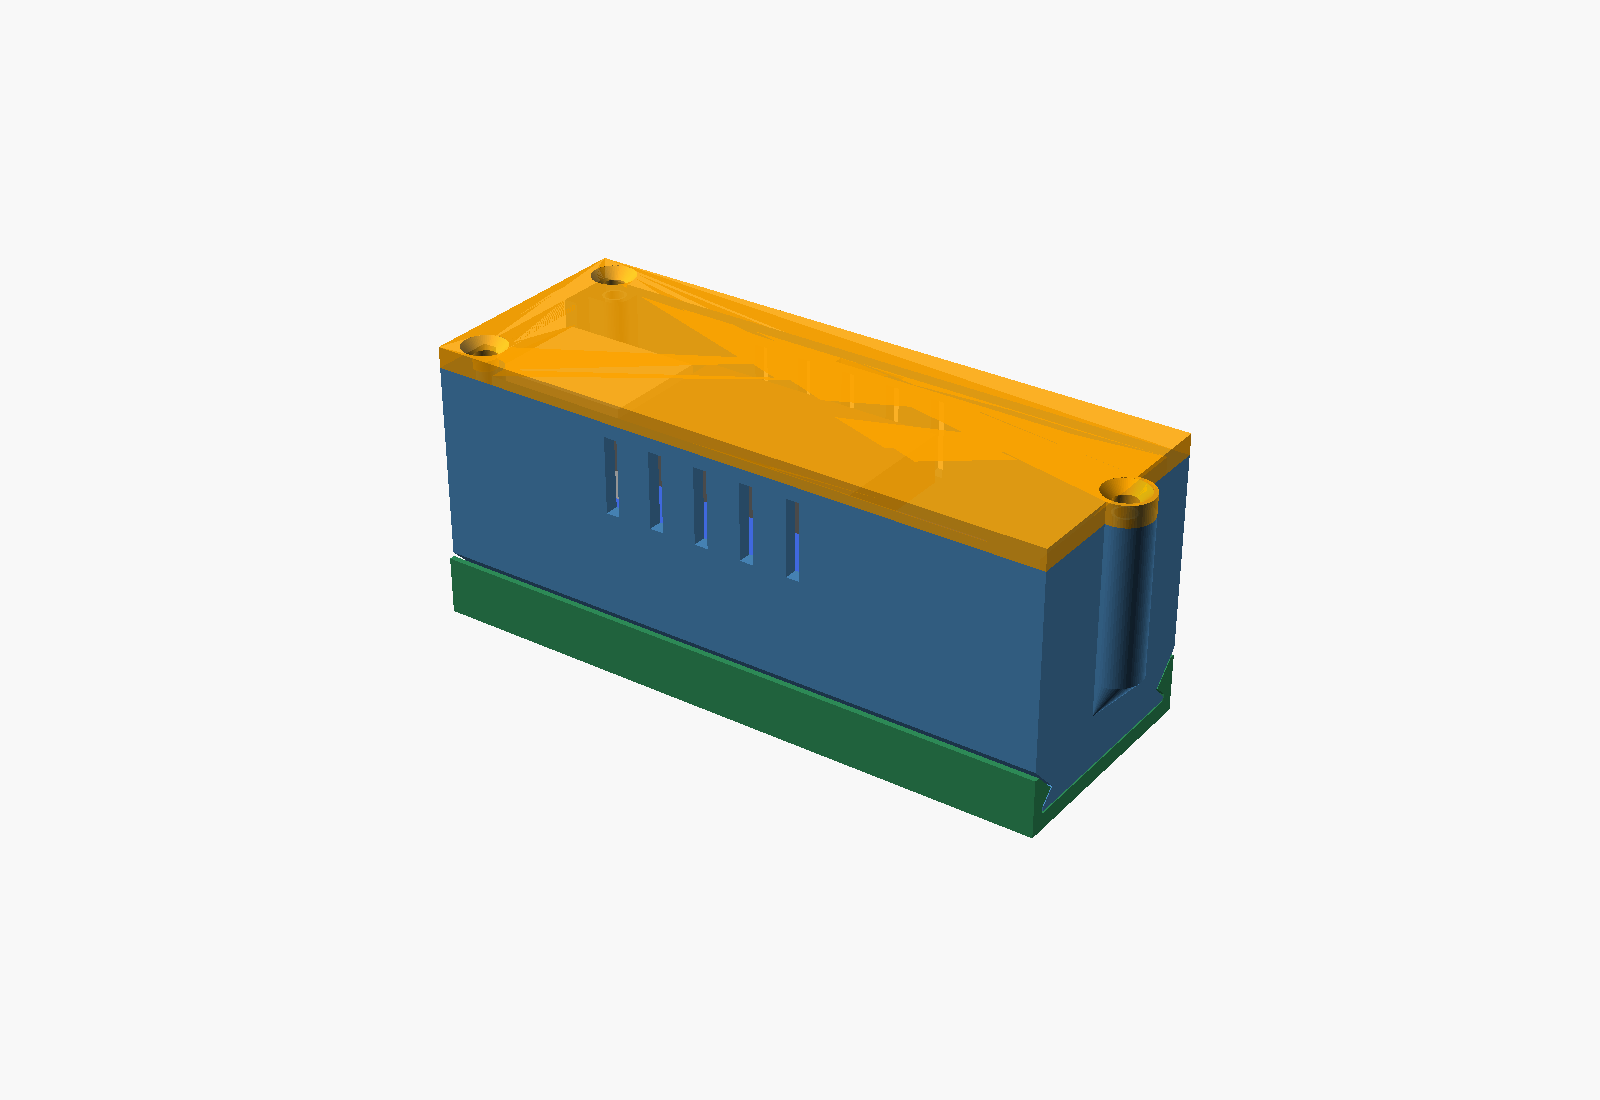
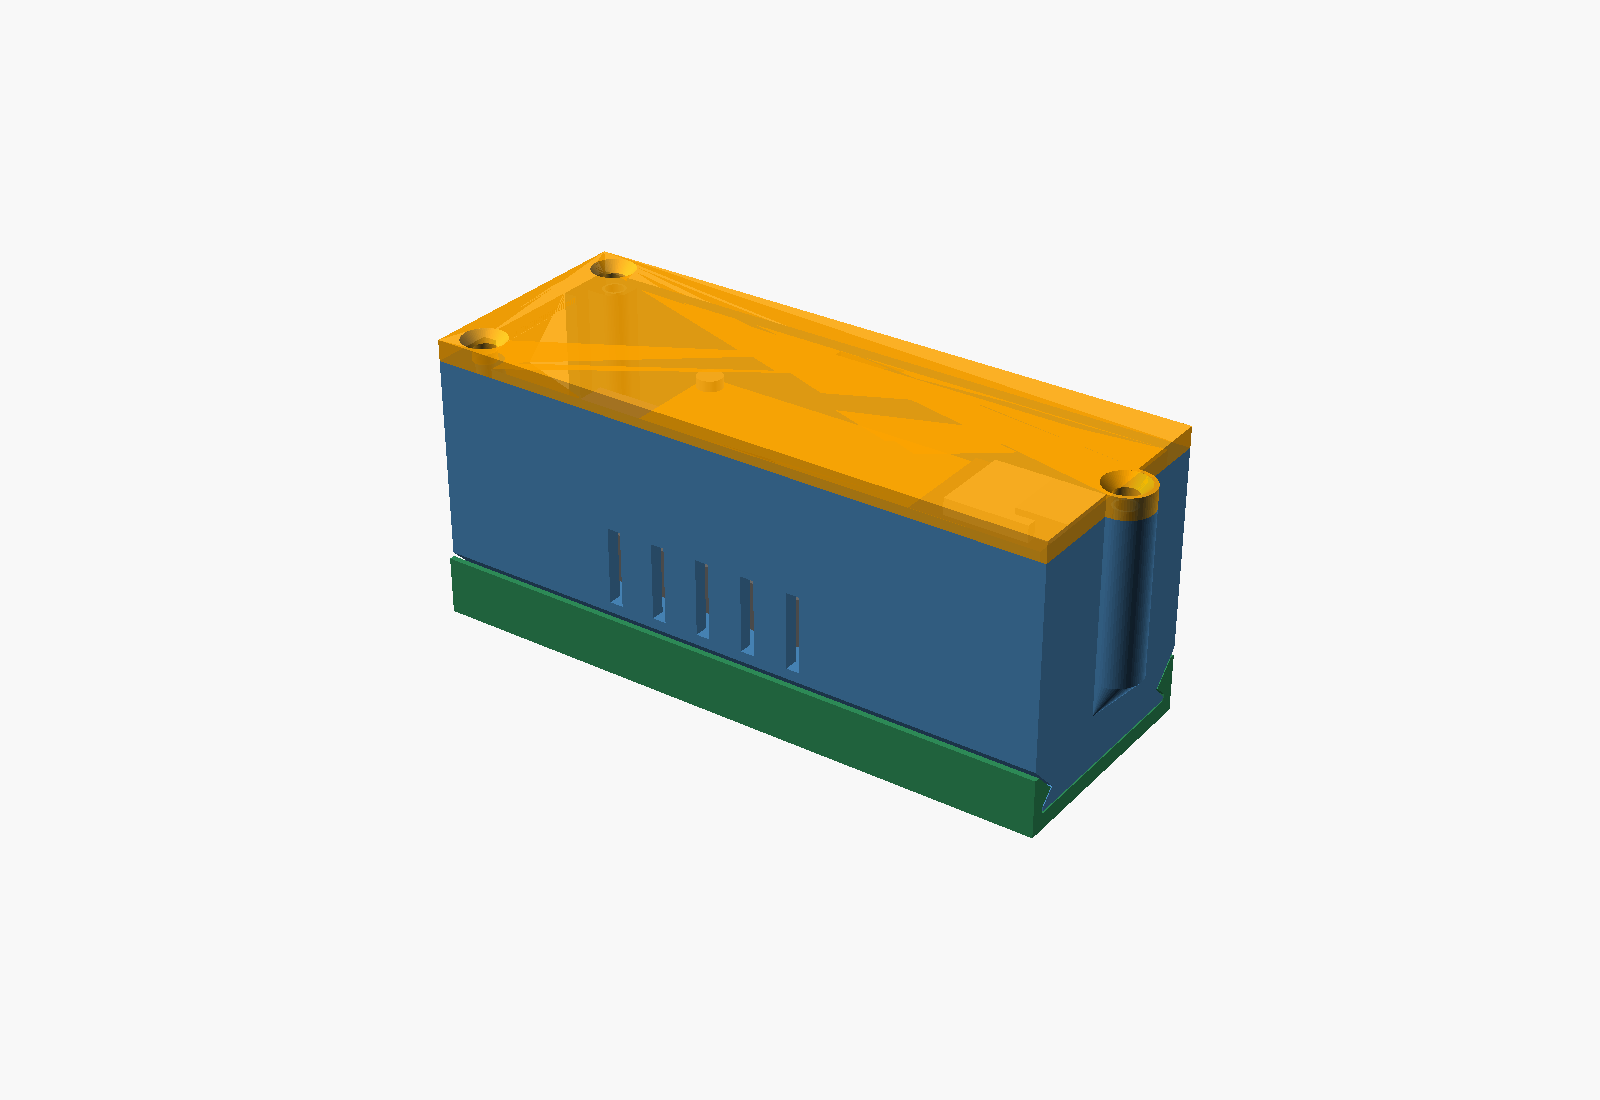
b1-proto-30x70 case: the board goes in Node side up
The lid is the face that looks at the gate (the base is against the pipe),
so the Node and its antenna go under the lid and the Timer hangs below the
board. Tall corner posts, the Ethernet jack low in the end wall with a
long lid tab above it, vents moved down beside the PoE module.

Changed region(s): [[0.2812, 0.2164, 0.75, 0.6182]]

diff --git a/b1-proto-30x70/README.md b/b1-proto-30x70/README.md
@@ -124,7 +124,7 @@ was printed and fitted; everything about how this board sits in it is new.
 
 | Part | What it does | How to print |
 |---|---|---|
-| `body` | Open box. The board sits on four corner posts, held by an M2 x 5 screw in each corner hole. The Node hangs below the board, the Timer stands above it | Floor down, as exported. No supports |
+| `body` | Open box. The board sits on four tall corner posts, held by an M2 x 5 screw in each corner hole. It goes in **Node side up**: the Node is under the lid and the Timer hangs below the board | Floor down, as exported. No supports |
 | `lid-countersunk` | Lid for **countersunk** M3 screws: a 3 mm plate with a cone at each of its three holes, so the heads sit flush. A tab fills the wall above the Ethernet jack | Outer face down, as exported. No supports |
 | `lid-socket-cap` | Lid for **socket cap** M3 screws: 4.8 mm tall and hollow underneath, with a pocket at each hole that the whole head goes into. Same tab | Outer face down, as exported. No supports |
 | `base-flat` | Plate for sitting on the ground. Its sides are flush with the case's | Plate down, as exported. No supports |
@@ -132,7 +132,7 @@ was printed and fitted; everything about how this board sits in it is new.
 | `base-strap` | Saddle with one tunnel for a 20 mm strap | Standing on its far end, as exported. No supports |
 
 Print one lid, whichever suits the screws you have; the body is the same for both. Case
-91 x 35 mm (96 mm over the lid's end lug) and 38 mm tall with the countersunk lid, 39 mm with
+91 x 35 mm (96 mm over the lid's end lug) and 39 mm tall with the countersunk lid, 40 mm with
 the socket cap lid. A base adds 3 mm underneath and nothing at the sides.
 
 ![Flat base: flush with the sides](pictures/assembly-flat.png)
@@ -142,6 +142,11 @@ The two lids, seen from underneath: countersunk, then socket cap.
 ![Lid for countersunk screws](pictures/part-lid-countersunk.png)
 ![Lid for socket cap screws](pictures/part-lid-socket-cap.png)
 
+- **The lid faces the gate, and the Node is under it.** The base is the side against the
+  pipe, so the lid is the face that looks at the gate opening. The board therefore goes in
+  turned over from how it is drawn above: Node and antenna up, under the lid, with only the
+  lid's plastic between the antenna and the gate; Timer down, towards the base. The corner
+  screws go in from the Node's side.
 - **One opening, for the Ethernet jack.** To reach either USB-C port, take the lid off, undo
   the four M2 screws and lift the board out.
 - **Nothing sticks out of the long sides.** The lid's screws are inside the two Ethernet-end
@@ -151,9 +156,12 @@ The two lids, seen from underneath: countersunk, then socket cap.
 - **A base slides on from the Ethernet end** until the case meets the stop at the base's
   Ethernet end, and clicks. A pull on the Ethernet cable pushes the case into the stop. Pull
   the case towards the far end to take it off.
-- **The antenna** has the space under the board and under the Timer's overhang. There is no
-  hole for one.
-- **Vents** in both long walls beside the PoE module.
+- **The antenna** has the space above the board, under the lid: 10 mm, of which the Node
+  takes 7. There is no hole for one.
+- **The Ethernet jack is low in the end wall**, since the Timer hangs down. The board still
+  drops in from the top: the slot runs up to the rim, and a long tab on the lid closes the
+  part of it above the jack.
+- **Vents** in both long walls beside the PoE module, low in the case.
 
 ### Hardware
 
@@ -177,26 +185,29 @@ Parameters at the top of `case.scad`.
 | Parameter | Value | What to measure |
 |---|---|---|
 | `mh_inset` | 2.0 | Centre of a corner mounting hole to each edge of the protoboard. Measured with a ruler on the built board, not calipers. The posts and their screw holes follow it |
-| `under_h` | 10 | Room below the protoboard. Measured on the built board: 7 mm from the underside of the protoboard to the top of the Node's USB-C, its highest point. That leaves 3 mm, which the antenna lead shares |
+| `node_room` | 10 | Room on the Node's side of the protoboard, under the lid. Measured on the built board: 7 mm from the protoboard to the top of the Node's USB-C, its highest point. That leaves 3 mm, which the antenna and its lead share |
 | `board_t` | 1.6 | Protoboard thickness |
 | `stack_h` | 17 | Top of the PoE module above the protoboard's top face. Measured on the first build, where the Timer sat the same way |
 | `timer_over`, `jack_out` | 15.2, 2.9 | Timer board past the `A` end, and the jack past the Timer board. From Waveshare's drawing |
 | `jack_z`, `jack_w`, `jack_h` | 4, 16, 13.5 | The jack: bottom above the protoboard, width, height |
-| `head` | 4 | Room above the PoE module, for the wires that run on top |
+| `head` | 5 | Room beyond the PoE module, on the Timer's side: the wires there, and it keeps the jack off the floor at the Ethernet end |
 | `fit`, `slide_fit` | 0.25, 0.25 | Board to walls, and foot to base |
 
 Checked in the model only: the parts do not overlap each other, the mock electronics or the
 pipe, and there is solid post under each corner screw. Not checked: any fit against real
 parts, and these in particular.
 
-- **Corner screws beside the Timer.** The two corner holes at the `A` end are about 2.5 mm
-  from the Timer board's edge. On the built board it is tight but nothing covers them.
+- **The two posts beside the Timer.** The corner holes at the `A` end are about 2.5 mm from
+  the Timer board's edge, and with the board Node side up the posts under them stand beside
+  the Timer for its whole height: 23 mm tall, 4.6 mm wide, cut back to 0.3 mm from the
+  Timer board. On the built board the holes are tight but clear; whether the PoE module
+  leaves room for a post beside it is the first thing to check on a print.
 - **The lid columns in the Ethernet-end corners** leave 0.5 mm to the Timer board's edge.
 - **The sunk heads leave thin edges.** At the two corner screws, the countersunk lid has
   0.6 mm of plastic between the cone and the lid's long edge, and the socket cap lid 0.8 mm
   between the pocket and that edge. They are in the lid, not the walls.
-- **The wires on top** pass the corner screw heads and the outer rows; `head` and the
-  2.5 mm beside the Timer are all the room they have.
+- **The wires**, which are on the Timer's side of the board, pass those two posts in the
+  outer rows; `head` and the 2.5 mm beside the Timer are all the room they have.
 - **The click tongue and the clips** carry over from a printed case, but on a narrower base.
 
 ## The drawing
